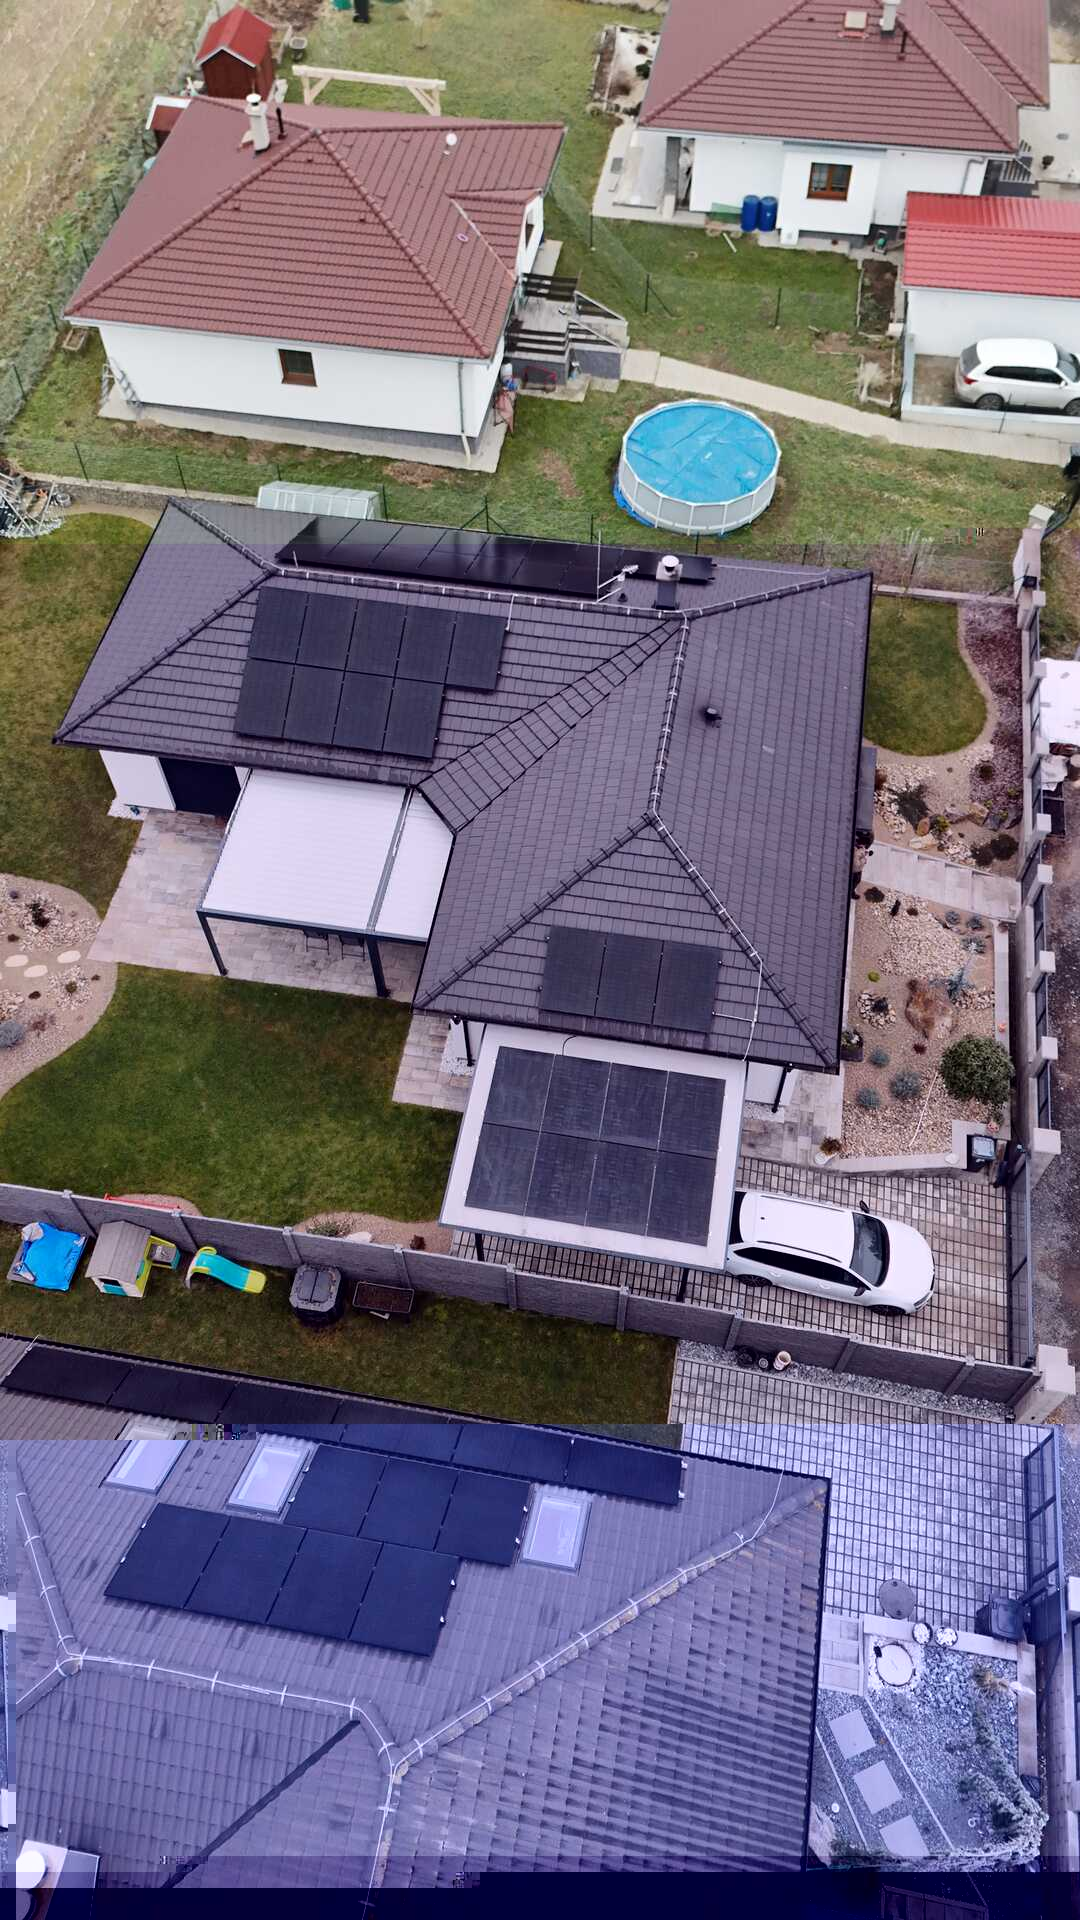
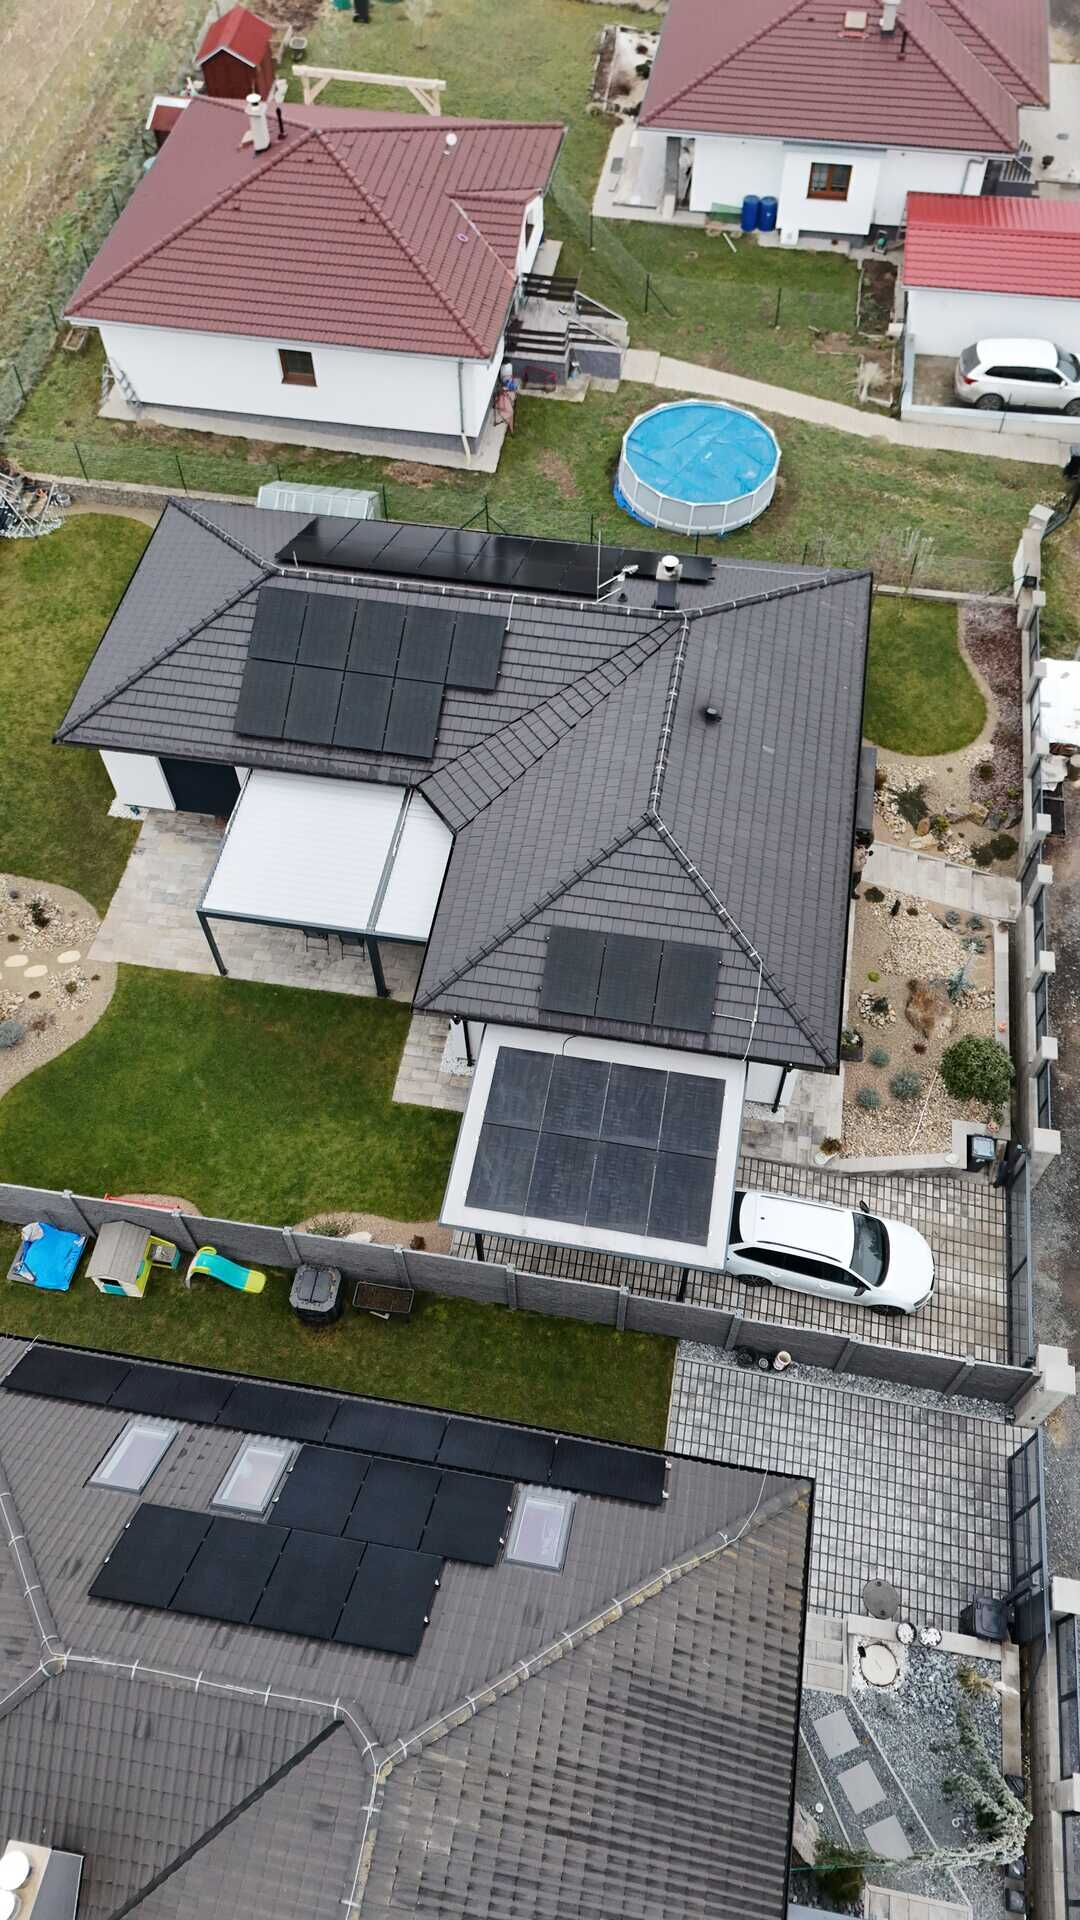
oprava fotek

Changed region(s): [[0.0, 0.7188, 1.0, 1.0]]

diff --git a/templates/bytovedomy.html b/templates/bytovedomy.html
@@ -56,13 +56,13 @@
                             <i class="fas fa-bolt"></i> Postaráme se o vše od technického řešení až po optimalizaci výkonu systému, abyste mohli naplno využít možnosti obnovitelné energie.</p>      
                     <div class="row">
                         <div class="col-md-4 mb-4">    
-                            <img class="img-fluid rounded d-block mx-auto zoom-img" src="{{ url_for('static', filename='images/bytovy1.jpg') }}" alt="bytový dům s fotovoltaikou">
+                            <img class="img-fluid rounded d-block mx-auto zoom-img" src="{{ url_for('static', filename='images/bytovy1a.jpg') }}" alt="bytový dům s fotovoltaikou">
                         </div>
                         <div class="col-md-4 mb-4">     
                             <img class="img-fluid rounded d-block mx-auto zoom-img" src="{{ url_for('static', filename='images/bytovy2.jpg') }}" alt="bytový dům s fotovoltaikou">                          
                         </div>
                         <div class="col-md-4 mb-4">   
-                            <img class="img-fluid rounded d-block mx-auto zoom-img" src="{{ url_for('static', filename='images/bytovy3.jpg') }}" alt="bytový dům s fotovoltaikou">
+                            <img class="img-fluid rounded d-block mx-auto zoom-img" src="{{ url_for('static', filename='images/bytovy3b.jpg') }}" alt="bytový dům s fotovoltaikou">
                         </div>                        
                     </div>
                 </div>

diff --git a/templates/review.html b/templates/review.html
@@ -65,7 +65,7 @@
                   <img class="responsive-img rounded zoom-img" src="{{ url_for('static', filename='images/doubravka2.jpg') }}" alt="Instalace pro bytové domy" />
                 </div>
                 <div class="col-md-4 mb-4">
-                  <img class="responsive-img rounded zoom-img" src="{{ url_for('static', filename='images/doubravka3a.jpg') }}" alt="Instalace pro bytové domy" />
+                  <img class="responsive-img rounded zoom-img" src="{{ url_for('static', filename='images/doubravka3.jpg') }}" alt="Instalace pro bytové domy" />
                 </div>
               </div>
             
@@ -124,7 +124,7 @@
             
                 <div class="text-center">
                     <h5 >Mohlo by vas také zajímat?</h5>
-                    <a href="{{ url_for('services') }}" style="text-decoration: underline;">FVE pro bytove domy<br></a>
+                    <a href="{{ url_for('services') }}" style="text-decoration: underline;">FVE pro firmy, bytové a rodinné domy<br></a>
                     <a href="{{ url_for('index') }}#reviews-container" style="text-decoration: underline;">Recenze Google</a>
                 </div>   
         </section>

diff --git a/static/css/styles.css b/static/css/styles.css
@@ -10852,7 +10852,7 @@ p {
 }
 
 .page-section {
-  padding-top: 4rem;
+  padding-top: 6rem;
 }
 
 .page-section h2.section-heading, .page-section .section-heading.h2 {
@@ -11540,8 +11540,8 @@ section#contact form#contactForm :-ms-input-placeholder {
   }
 
   .google-logo {
-    width: 80px; /* nebo co potřebuješ */
-    height: auto; /* zachová proporce */
-    border-radius: 50%; /* pokud chceš udržet kulatý tvar */
+    width: 80px; 
+    height: auto; 
+    border-radius: 50%; 
     margin: 10px auto;
 }
